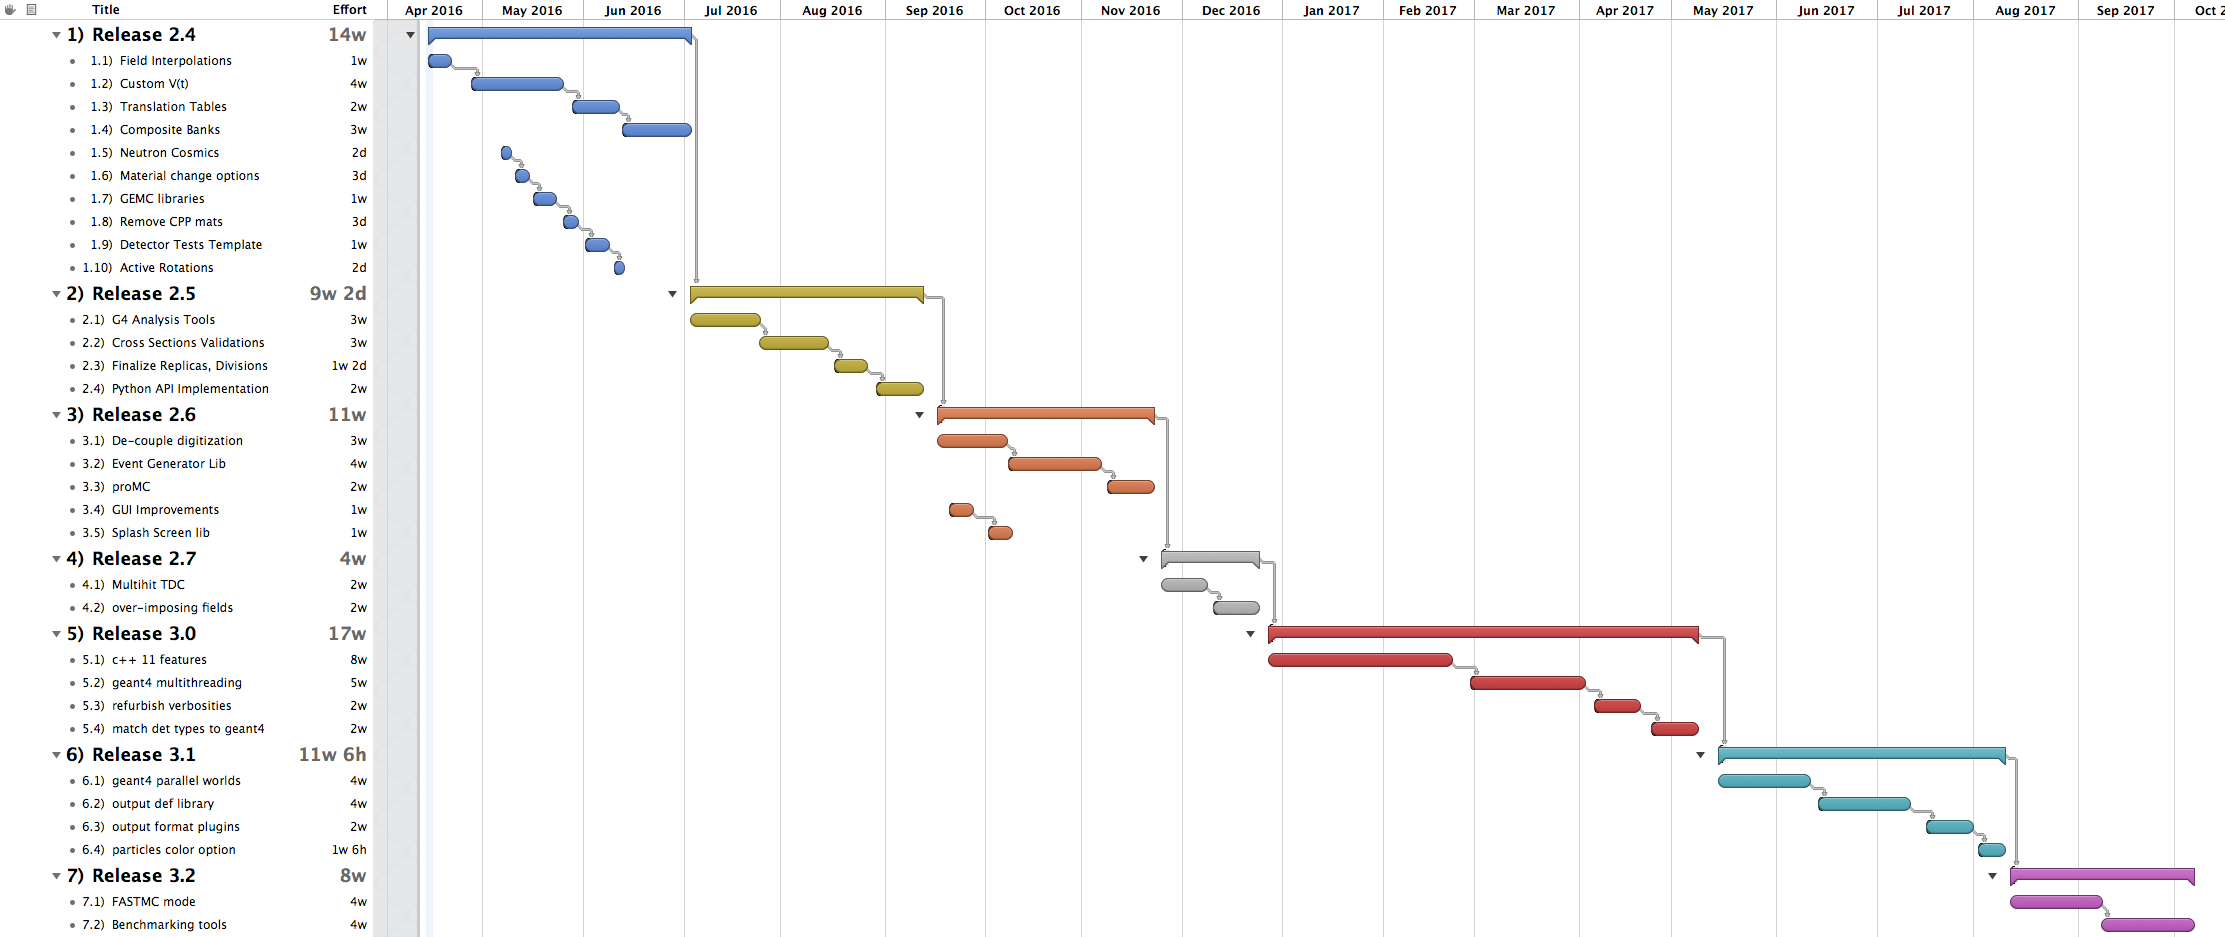
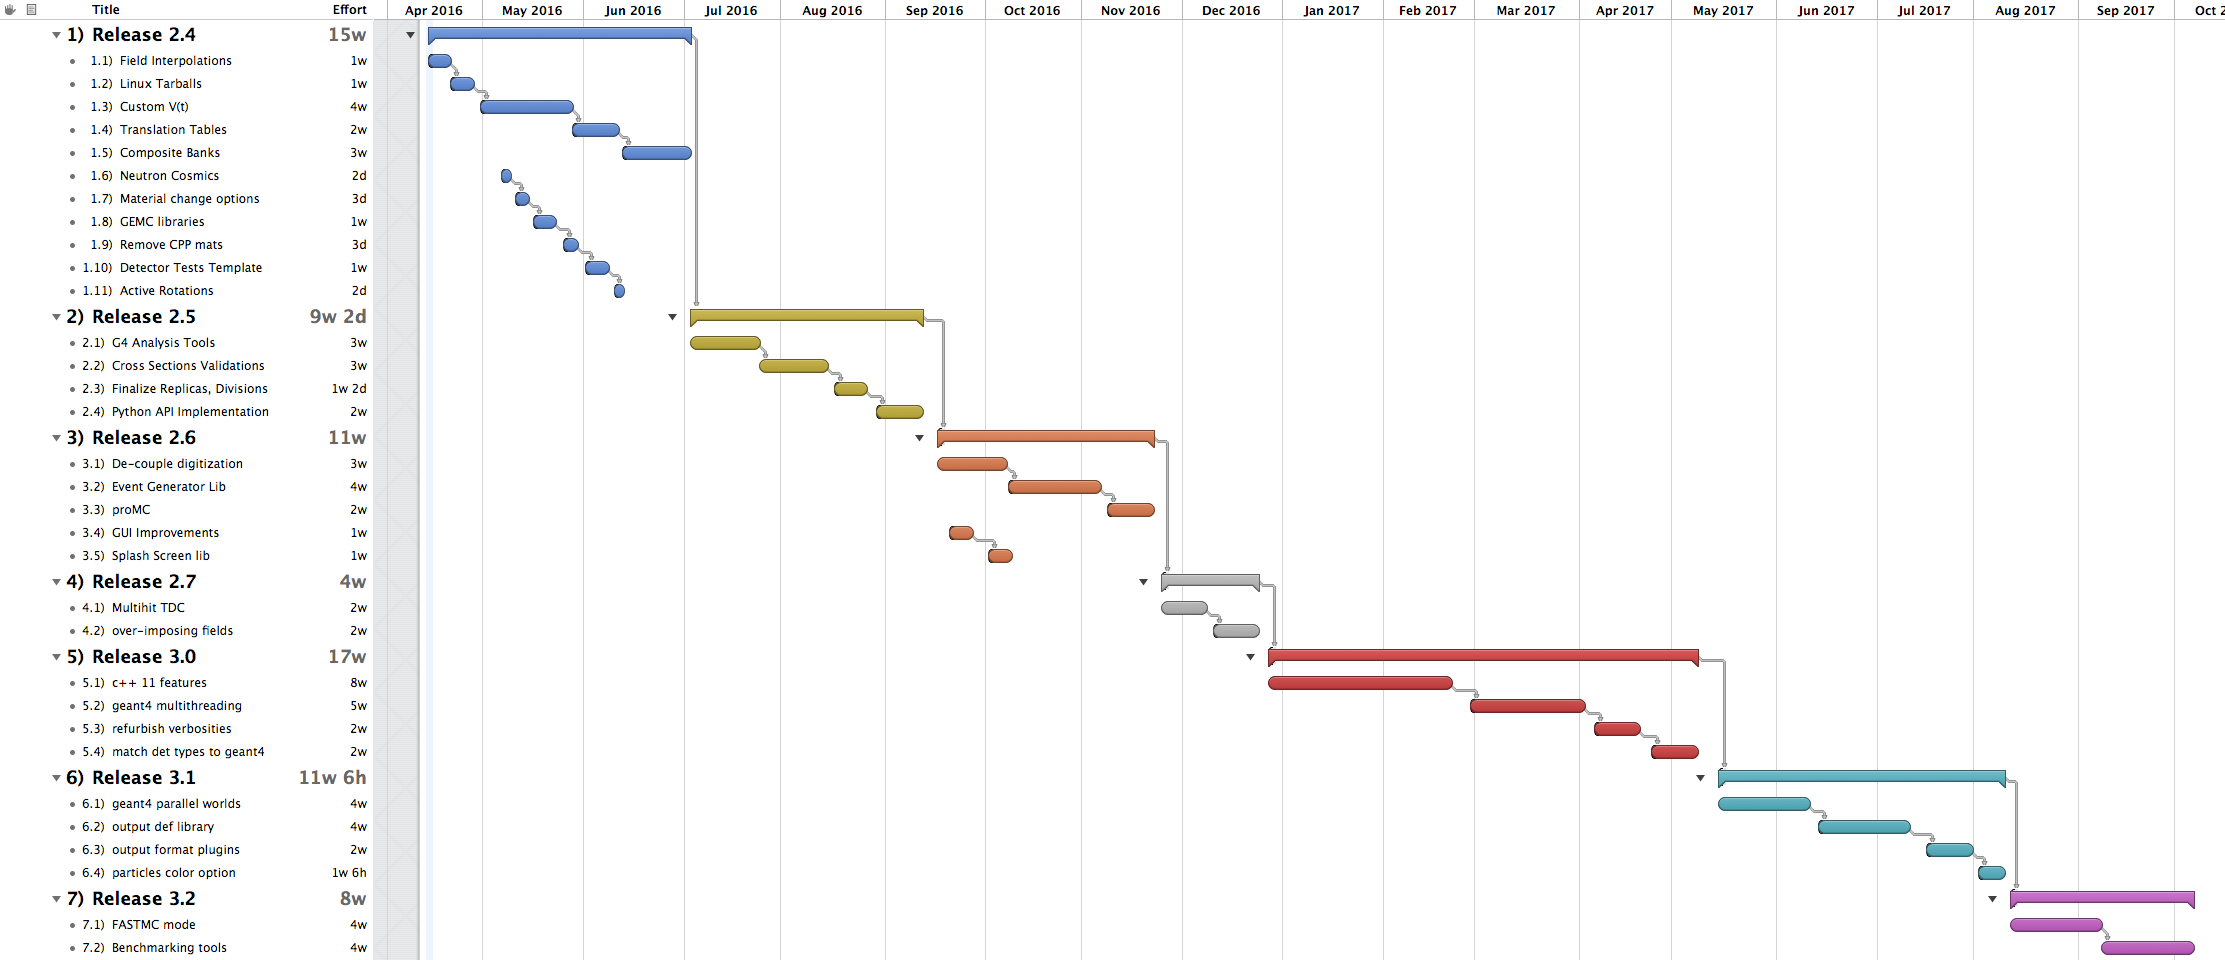
added linux tarballs

diff --git a/webPage/source/documentation/releases/roadmap.rst b/webPage/source/documentation/releases/roadmap.rst
@@ -15,9 +15,11 @@ GEMC Roadmap
 GEMC 2.4
 --------
 
-- Using new geant4 10.2.
+- Using new geant4 10.2. ✅
 
-- Magnetic Field interpolations
+- Magnetic Field interpolations.
+
+- Linux Tarballs.
 
 - **Custom V(t)**:
   Currently a Voltage vs time V(t) function is provided by gemc, based on a user parameterization
